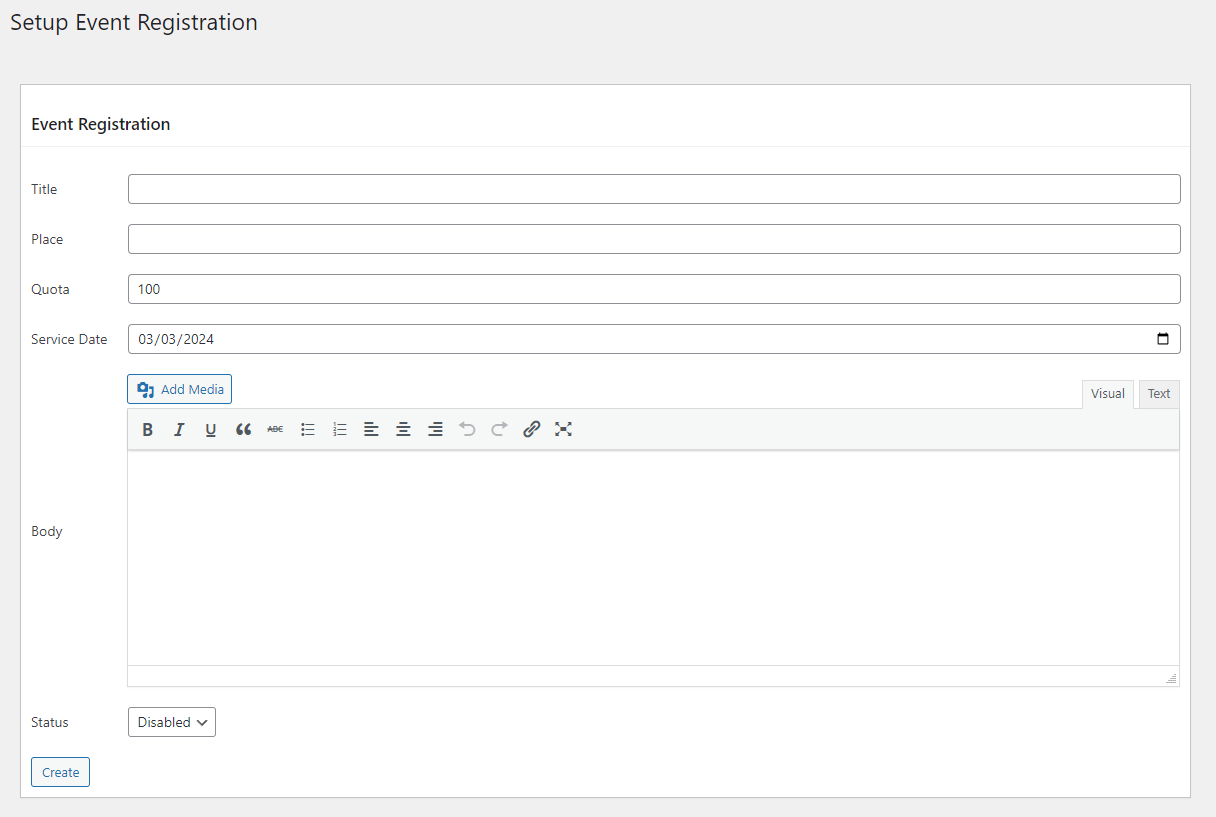
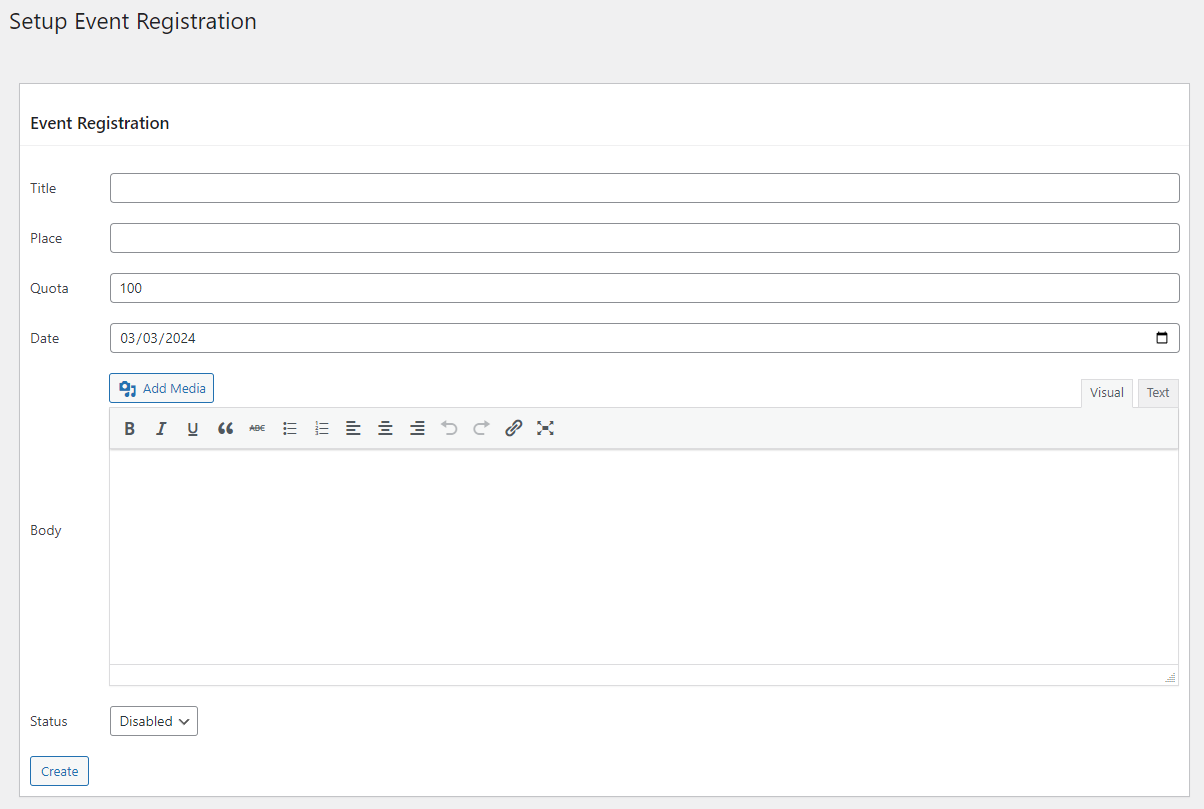
update image

diff --git a/event-box-admin.php b/event-box-admin.php
@@ -76,7 +76,7 @@ class EventBoxAdmin {
                                         </tr>
                                         <tr>
                                             <?php $nextSunday = date('Y-m-d', strtotime('next sunday')); ?>
-                                            <td class="first"><label for="name">Service Date</label></td>
+                                            <td class="first"><label for="name">Date</label></td>
                                             <td><input type="date" required name="event_date" value="<?php echo isset($event_date_e)? $event_date_e : $nextSunday; ?>" id="event_date"></td>
                                         </tr>
                                         <tr>

diff --git a/README.MD b/README.MD
@@ -2,6 +2,9 @@
 
 A Wordpress Plugin to setup, publish, manage and audit your events
 
+## Screenshots
+![Event Admin](https://raw.githubusercontent.com/satriacode/event-box/main/screenshots/event-admin.png)
+
 ## Features
 - [x] Event setup
 - [x] Event registration
